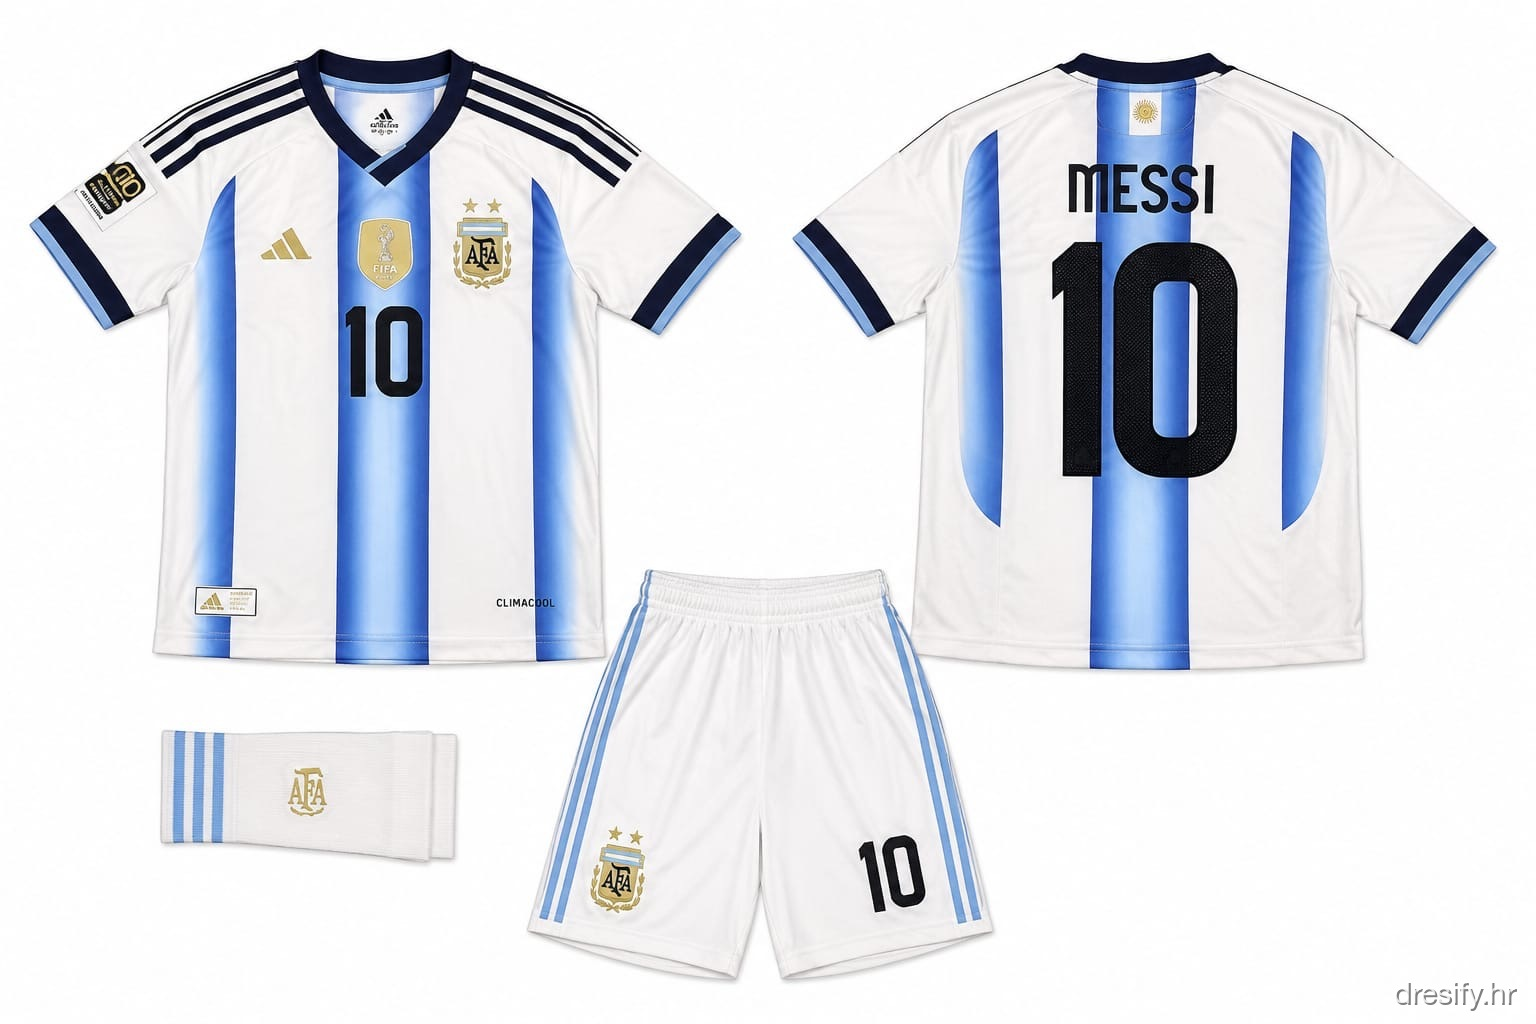
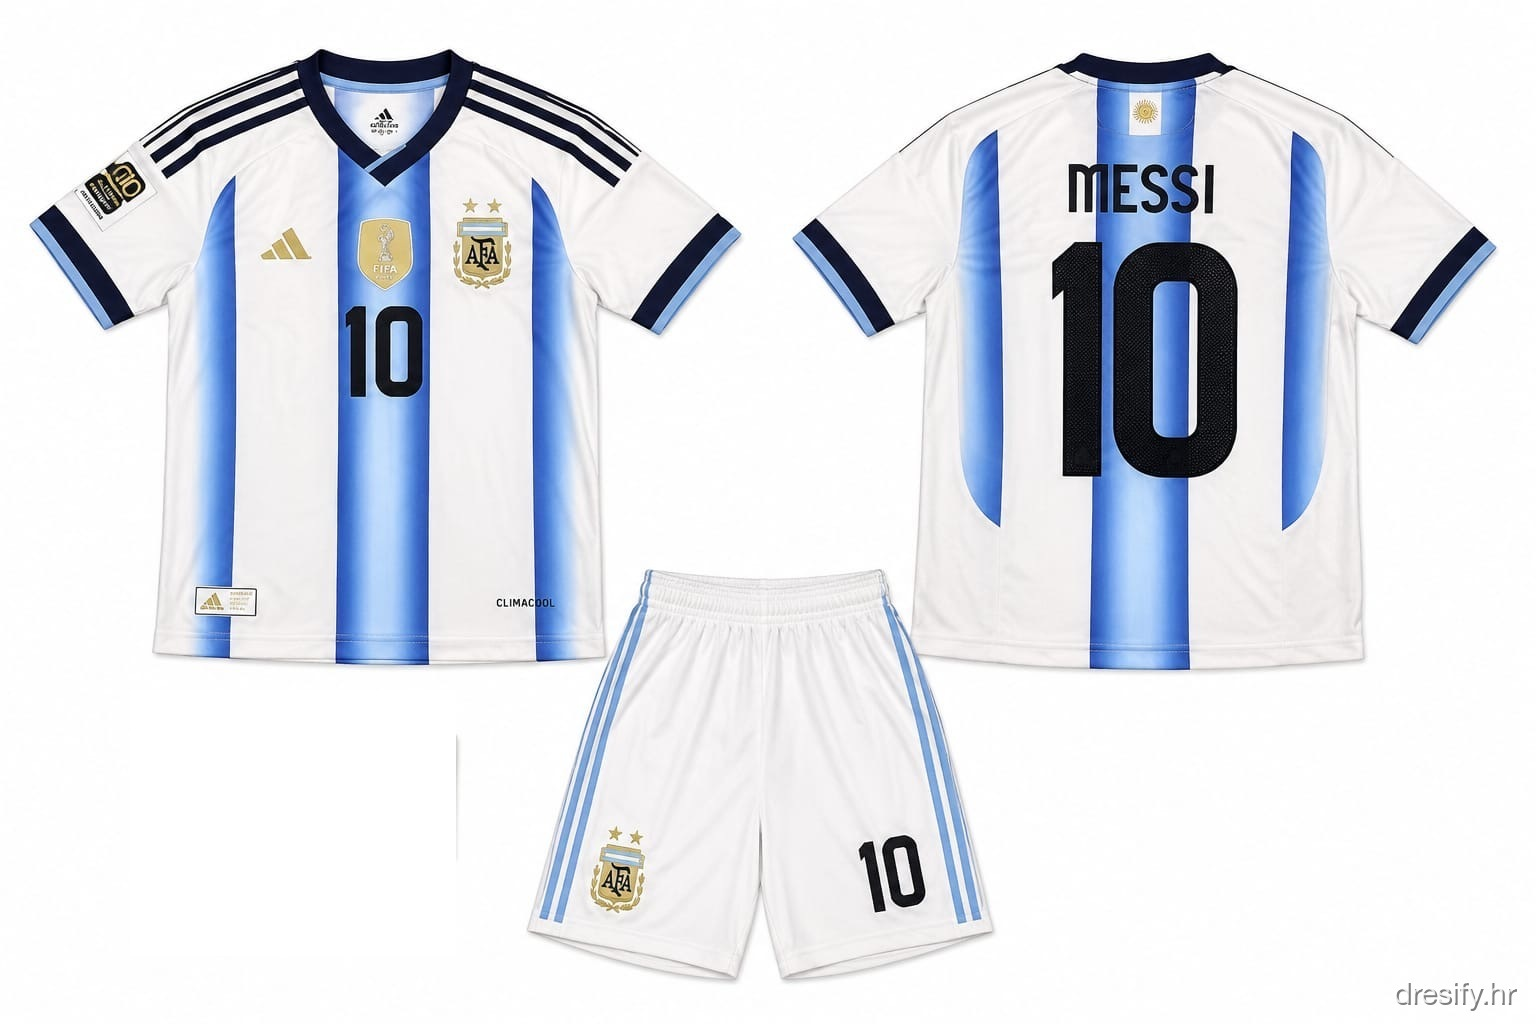
feat: size guide on product page + remove socks from Argentina image
- Removed the socks from argentina-messi-retro front image (kept
  jersey + shorts)
- New SizeGuide modal ("Vodič za veličine") next to size selection on
  product detail — kids height table + adult chest/length table + tip

Changed region(s): [[0.0938, 0.6875, 0.3125, 0.8438]]

diff --git a/components/product/size-guide.tsx b/components/product/size-guide.tsx
@@ -1,0 +1,115 @@
+"use client";
+
+import { useEffect, useState } from "react";
+import { Ruler, X } from "lucide-react";
+
+const KIDS = [
+  { size: "116", height: "110–116 cm", age: "5–6 god." },
+  { size: "128", height: "116–128 cm", age: "7–8 god." },
+  { size: "140", height: "128–140 cm", age: "9–10 god." },
+  { size: "152", height: "140–152 cm", age: "11–12 god." },
+  { size: "164", height: "152–164 cm", age: "13–14 god." },
+  { size: "176", height: "164–176 cm", age: "15–16 god." },
+];
+
+const ADULTS = [
+  { size: "S", chest: "88–96 cm", length: "70 cm" },
+  { size: "M", chest: "96–104 cm", length: "72 cm" },
+  { size: "L", chest: "104–112 cm", length: "74 cm" },
+  { size: "XL", chest: "112–120 cm", length: "76 cm" },
+];
+
+export function SizeGuide() {
+  const [open, setOpen] = useState(false);
+
+  useEffect(() => {
+    if (typeof document === "undefined") return;
+    document.body.style.overflow = open ? "hidden" : "";
+    return () => { document.body.style.overflow = ""; };
+  }, [open]);
+
+  return (
+    <>
+      <button
+        type="button"
+        onClick={() => setOpen(true)}
+        className="inline-flex items-center gap-1.5 text-xs font-semibold uppercase tracking-[0.16em] text-accent transition hover:text-white"
+      >
+        <Ruler className="h-3.5 w-3.5" />
+        Vodič za veličine
+      </button>
+
+      {open ? (
+        <div
+          className="fixed inset-0 z-[100] flex items-end justify-center bg-black/70 p-0 sm:items-center sm:p-4"
+          onClick={() => setOpen(false)}
+        >
+          <div
+            className="relative w-full max-w-lg overflow-hidden rounded-t-[16px] border border-white/10 bg-[#111111] sm:rounded-[16px]"
+            onClick={(e) => e.stopPropagation()}
+          >
+            <div className="flex items-center justify-between border-b border-white/10 px-5 py-4">
+              <h2 className="font-heading text-lg uppercase tracking-[0.04em] text-white">Vodič za veličine</h2>
+              <button
+                type="button"
+                onClick={() => setOpen(false)}
+                aria-label="Zatvori"
+                className="flex h-8 w-8 items-center justify-center rounded-[6px] text-white/60 transition hover:bg-white/10 hover:text-white"
+              >
+                <X className="h-4 w-4" />
+              </button>
+            </div>
+
+            <div className="max-h-[70vh] overflow-y-auto px-5 py-5">
+              {/* Djeca */}
+              <p className="text-xs font-semibold uppercase tracking-[0.24em] text-accent">Djeca</p>
+              <table className="mt-3 w-full text-sm">
+                <thead>
+                  <tr className="text-left text-[11px] uppercase tracking-[0.14em] text-white/40">
+                    <th className="pb-2 font-medium">Veličina</th>
+                    <th className="pb-2 font-medium">Visina</th>
+                    <th className="pb-2 font-medium">Dob (okvirno)</th>
+                  </tr>
+                </thead>
+                <tbody className="text-white/80">
+                  {KIDS.map((row) => (
+                    <tr key={row.size} className="border-t border-white/8">
+                      <td className="py-2 font-semibold text-white">{row.size}</td>
+                      <td className="py-2">{row.height}</td>
+                      <td className="py-2 text-white/55">{row.age}</td>
+                    </tr>
+                  ))}
+                </tbody>
+              </table>
+
+              {/* Odrasli */}
+              <p className="mt-6 text-xs font-semibold uppercase tracking-[0.24em] text-accent">Odrasli</p>
+              <table className="mt-3 w-full text-sm">
+                <thead>
+                  <tr className="text-left text-[11px] uppercase tracking-[0.14em] text-white/40">
+                    <th className="pb-2 font-medium">Veličina</th>
+                    <th className="pb-2 font-medium">Grudi (opseg)</th>
+                    <th className="pb-2 font-medium">Dužina</th>
+                  </tr>
+                </thead>
+                <tbody className="text-white/80">
+                  {ADULTS.map((row) => (
+                    <tr key={row.size} className="border-t border-white/8">
+                      <td className="py-2 font-semibold text-white">{row.size}</td>
+                      <td className="py-2">{row.chest}</td>
+                      <td className="py-2 text-white/55">{row.length}</td>
+                    </tr>
+                  ))}
+                </tbody>
+              </table>
+
+              <p className="mt-6 rounded-[8px] border border-white/10 bg-[#0a0a0a] p-3 text-[13px] leading-5 text-white/55">
+                💡 <span className="text-white/75">Savjet:</span> uzmi majicu koja trenutno dobro stoji, raširi je i izmjeri širinu ispod pazuha i dužinu. Ako si između dvije veličine, uzmi veću. Nisi siguran/na? Pošalji nam visinu na WhatsApp i predložit ćemo veličinu.
+              </p>
+            </div>
+          </div>
+        </div>
+      ) : null}
+    </>
+  );
+}

diff --git a/components/product/product-detail-panel.tsx b/components/product/product-detail-panel.tsx
@@ -6,6 +6,7 @@ import { Truck, RotateCcw, MessageCircle, Zap } from "lucide-react";
 import { useCart } from "@/components/providers/cart-provider";
 import { useLanguage } from "@/contexts/language-context";
 import { StickyAddToCart } from "@/components/product/sticky-add-to-cart";
+import { SizeGuide } from "@/components/product/size-guide";
 import { getJerseyGallery } from "@/lib/data/jersey-media";
 import {
   getJerseySizeOptions,
@@ -110,7 +111,10 @@ export function ProductDetailPanel({ product }: ProductDetailPanelProps) {
 
       {currentSizes.length > 0 ? (
         <div className="mt-8">
-          <p className="text-sm font-medium uppercase tracking-[0.24em] text-white/70">{t.product.selectSize}</p>
+          <div className="flex items-center justify-between">
+            <p className="text-sm font-medium uppercase tracking-[0.24em] text-white/70">{t.product.selectSize}</p>
+            <SizeGuide />
+          </div>
           <div className="mt-4 grid grid-cols-3 gap-3 sm:grid-cols-4">
             {currentSizes.map((size) => (
               <button
